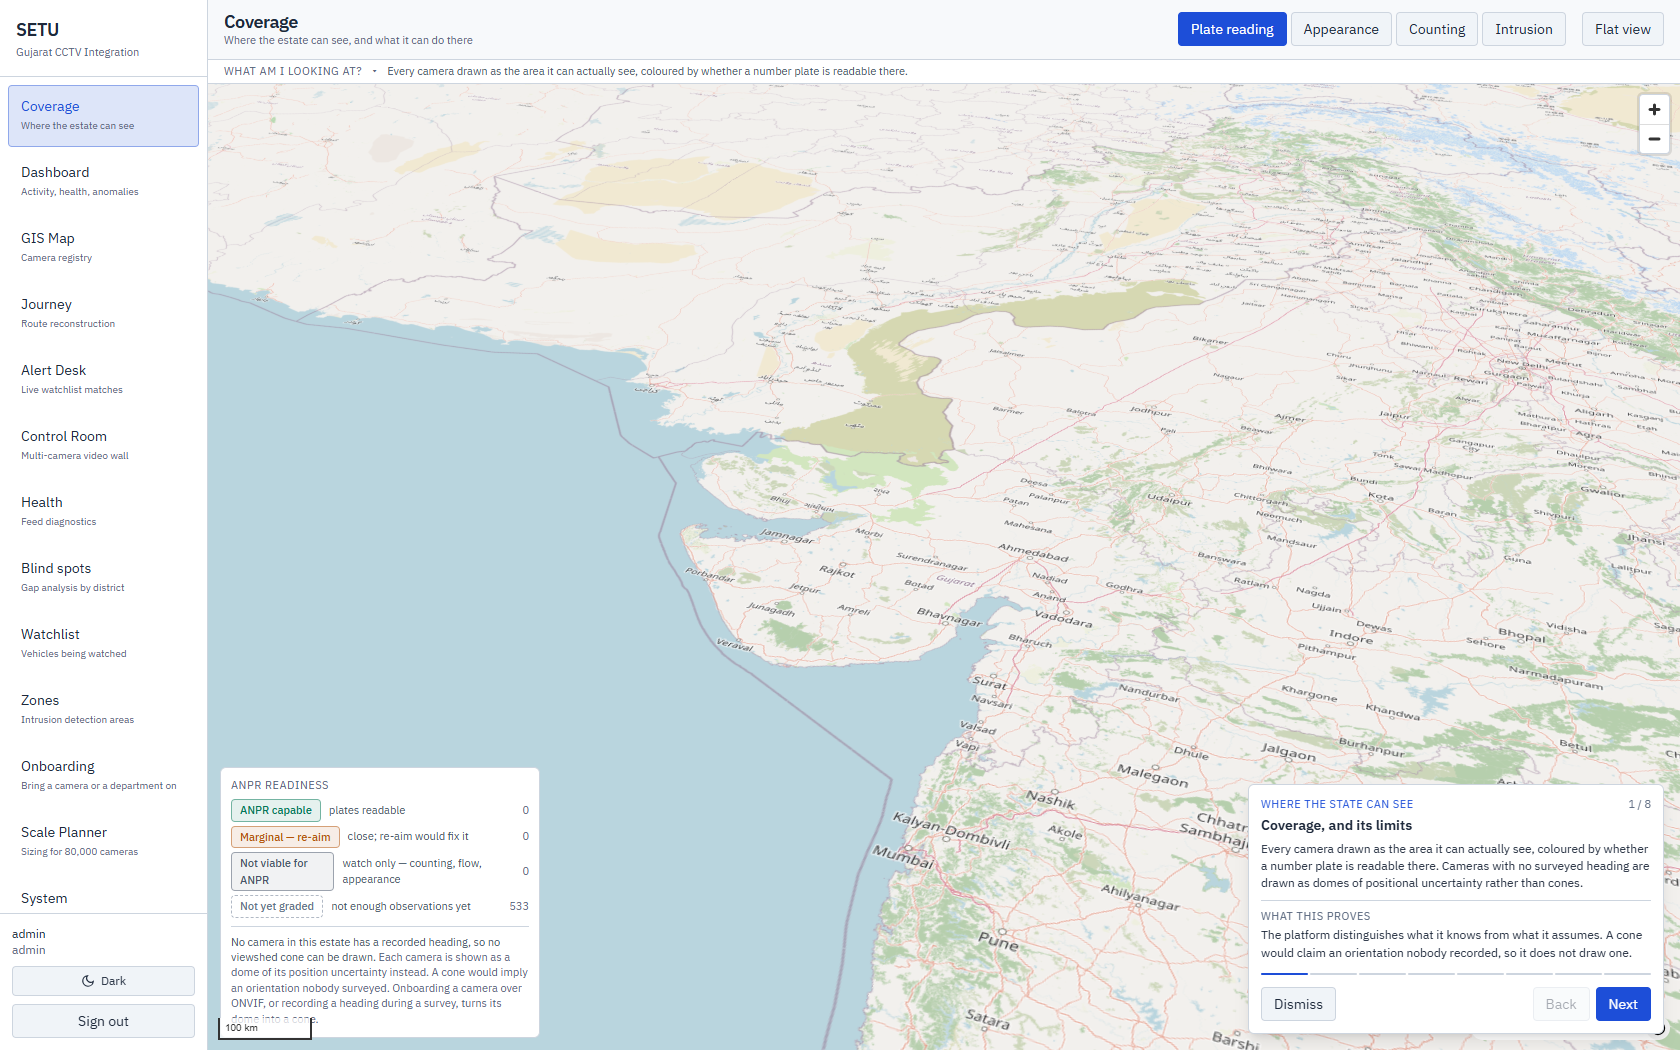
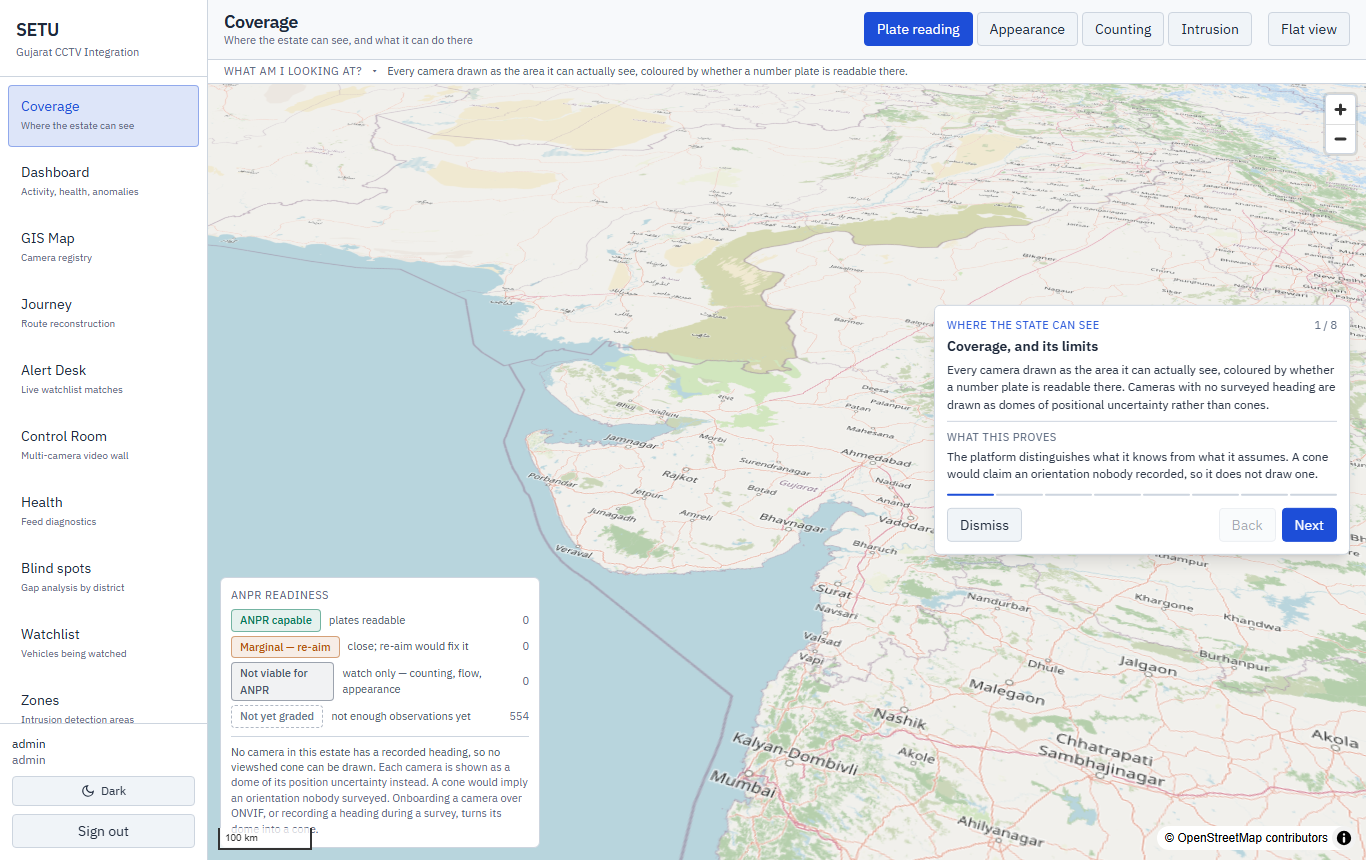
Nine evidence crops looked broken and were waiting to be scrolled to
The walkthrough reported nine of twenty-eight journey crops failing to load. No
request had failed, nothing was missing from disk, and fetching one of the
"broken" URLs directly returned 200 with 343 KB of JPEG. They are loading="lazy"
and below the fold, so naturalWidth is 0 until they are scrolled into view --
which is the behaviour the attribute is there to produce.

The check was measuring the wrong thing, so it now only considers images actually
in the viewport. Worth the paragraph because an assertion that cries wolf is
worse than no assertion: the next real broken image would have been read as this
one.

It did surface a real number while being wrong. The crops median 24 KB, but 19%
run over 150 KB and the largest is 591 KB, because a vehicle crop is saved at the
resolution it was cut from. Lazy loading already keeps that off the first paint
and the crop is the evidence artefact, so it is recorded rather than resized --
shrinking it would make the exported evidence smaller than the thing it attests
to.

Also updates the Phase 2 summary: appearance search and traffic counting against
the evaluation criteria, the six bonus criteria mapped to where each is actually
delivered, and the watch-budget finding added to the list of things that are
still not true.

Screenshots recaptured. Thirty-two assertions across sixteen screens, all
holding.

diff --git a/docs/PHASE2_SUMMARY.md b/docs/PHASE2_SUMMARY.md
@@ -21,6 +21,8 @@ estate-wide figure. That reframe is what the work below delivers.
 | **The ceiling turned into a deliverable** | Per-camera ANPR readiness grading from measured pixel budget. Analytics assigned by capability rather than configuration. A Scale Planner that extrapolates measured per-camera cost to 80,000. |
 | **Onboarding that shows its working** | A live staged probe: SSRF validation, timed TCP handshake, transport negotiation with its reason, codec and resolution, **declared against measured frame rate**, the first decoded frame, a readiness grade with reasoning. A stage never reached is drawn as skipped, not omitted. Plus a real ONVIF adapter. |
 | **Integration surface** | Scoped service-account API keys, HMAC-signed webhooks with timestamp binding, idempotency keys, cursor pagination, API versioning, Prometheus metrics, structured logs with correlation IDs, AES-256-GCM sealed camera credentials. |
+| **Finding a vehicle with no plate at all** | Browse every vehicle the detector recorded and search the estate by appearance alone. On two days of footage that is 48 vehicles of which **1** has a readable registration — the other 47 were invisible to every plate-based search. Everything it returns is a Candidate and nothing can promote it. |
+| **Traffic counted honestly** | `/analytics/traffic` counts vehicle passes rather than plate reads: 402 where the plate pipeline identified 20, with class mix, per-camera rates and the peak bucket. Means are taken over the hours a camera actually reported, not the hours requested. |
 | **Analytics beyond ANPR** | Cloned-plate, convoy and dwell detection; corridor flow analytics; an operational dashboard. Each ships its limits in the response body beside its results. |
 | **Forensic 3D** | Coverage as viewsheds. A time-as-altitude journey plot where loitering, convoy and impossible travel are shapes rather than computations. |
 | **Operational readiness** | A tested backup/restore drill with audit-chain verification, and an on-call runbook for gateway down, camera flapping, database failover and disk pressure. |
@@ -47,23 +49,44 @@ and records host and port rather than a URL that may carry credentials.
 strongest sixty seconds available: a camera declaring 25 fps and delivering 15, on screen,
 is a more credible answer to the integration guide's own warning than any slide.
 
-**5. Video analytics output.** ANPR, vehicle detection and classification, counting, flow,
-dwell, intrusion zones, cloned-plate and convoy detection, appearance-based cross-camera
-correlation. The appearance gate ships at a **measured false-link rate of 0.055**; a looser
-gate measured **0.834** and was rejected (`DISCOVERY.md` finding 25).
+**5. Video analytics output.** ANPR, vehicle detection and classification, traffic counting
+with class mix, flow, dwell, intrusion zones, cloned-plate and convoy detection, and
+appearance-based cross-camera correlation in both directions — from a plate outwards, and
+from a picture when there is no plate at all. The appearance gate ships at a **measured
+false-link rate of 0.055**; a looser gate measured **0.834** and was rejected
+(`DISCOVERY.md` finding 25).
+
+The counting figure is the one to look at twice. `/vehicle-counts` reports plate reads and
+says in its own docstring that every number is a floor on traffic; `/analytics/traffic`
+counts the vehicles the detector saw. On the same window those are 20 and 402. The second
+is the number a control room is asking for, and it only exists because sightings were
+decoupled from plate reads.
 
 **6. Scalability and PoC readiness.** The Scale Planner is arithmetic on measurements taken
-on the stated hardware, with assumptions adjustable on screen. Readiness grading answers the
-procurement question the ceiling actually raises: which cameras to re-aim, which to replace,
-and which are fine for everything except plates.
+on the stated hardware, with assumptions adjustable on screen and the provenance of every
+constant on the same page — measured, published, or assumption. It now also covers the
+operational half the brief asks for: horizontal scaling, load balancing, health checks,
+monitoring, logging, backup, disaster recovery and cybersecurity, each naming what exists
+and where to check it. The two things not demonstrated at scale — an edge node and a
+database failover — are listed as unproven rather than implied to be done.
+
+Readiness grading answers the procurement question the ceiling actually raises: which
+cameras to re-aim, which to replace, and which are fine for everything except plates.
 
 **7. Submission completeness.** README, HLD and DISCOVERY are current; DISCOVERY carries
 twenty-seven dated findings. A refreshed demonstration script, an on-call runbook, and a
 recorded backup/restore drill result.
 
-**Bonus.** Cross-camera correlation without plates; analytics beyond the mandate; auditability
-extended to cover every accept/reject decision; integration-ready APIs with metrics and
-runbooks.
+**Bonus**, against the six listed criteria:
+
+| Criterion | Where |
+|---|---|
+| Innovative hybrid or customised architecture | Model 1+2+3 hybrid, with analytics assigned per camera from measured pixel budget rather than configuration |
+| Advanced cross-camera tracking or multi-camera correlation | Candidate journeys from a plate, **and appearance search with no plate at all** — the capability that works on the 47 vehicles in 48 that ANPR cannot see |
+| Additional reliable analytics beyond ANPR | Traffic counting with class mix, flow, dwell, intrusion zones, cloned-plate and convoy detection, corridor analytics |
+| Edge processing, bandwidth optimisation, low connectivity | Measured 86.3% frame filtering before the detector; a 5× bandwidth reduction at the centre, sized on screen |
+| Cybersecurity, privacy, auditability, RBAC | Forced row-level security with a role that cannot bypass it, hash-chained append-only ledger, Ed25519-signed exports, SSRF guard, sealed credentials, scoped keys — and every appearance search written to the ledger with its purpose before it runs |
+| Operational dashboards, alerts, health monitoring, integration-ready APIs | Dashboard, Alert Desk, per-camera readiness and health, 18 Prometheus series, signed webhooks, idempotency, cursor pagination, API versioning |
 
 ## What is still not true, stated here rather than found later
 
@@ -75,6 +98,10 @@ runbooks.
   is the largest gap between the scale model and the running system.
 - **The ONVIF adapter has not met a physical ONVIF camera.** It is implemented and unit-tested
   against recorded device responses; no device was available.
+- **The government feed's watch budget is smaller than one pass over the estate.** Thirty
+  cameras at twenty seconds exhausted the whole allowance and returned zero frames
+  (`DISCOVERY.md` finding 30). Every screen except the Control Room reads from the database
+  and is unaffected, which is why the demonstration leads with those.
 - **The gateway media plane is third-party and intermittent, and its quota is per account.**
   A newly issued access code restores catalogue access and does not return watch time; the
   cooldown still has to elapse (`DISCOVERY.md` finding 28). Nothing in this repository can fix

diff --git a/docs/screenshots/phase2/README.md b/docs/screenshots/phase2/README.md
@@ -12,7 +12,8 @@ so the Control Room tiles render black in it and every screenshot of it would li
 |---|---|---|
 | 01 | Login | Role selection, and Judge Mode — the scored path one click from here |
 | 02 | Signed in | The guided tour opening itself on a first visit |
-| 03 | Coverage | The login destination. Every placed camera as the ground it can see |
+| 03 | Find a vehicle | **The capability nobody else will have.** Browse every vehicle the detector recorded — 48 here, of which 1 has a readable plate — and search the estate by appearance alone |
+| 04 | Coverage | The login destination. Every placed camera as the ground it can see |
 | 00 | Coverage, domes | Why they are domes: no camera in this estate publishes a heading |
 | 04 | Coverage, dark | The same screen in the other theme |
 | 05 | Dashboard | Estate activity, readiness mix, camera health, anomalies with their limits |
